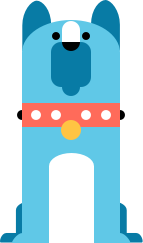
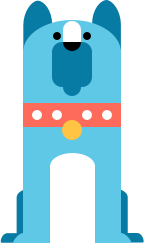
updating motion

diff --git a/projects/motion/index.html b/projects/motion/index.html
@@ -28,6 +28,17 @@
 				top: 50%;
 				transition-duration: 4s;
 			}
+			#dog {
+				position: absolute;
+				top: 50%;
+				left: 50%;
+				transform: translate(-50%,-50%);
+				z-index: 2;
+			}
+			#tail {
+				position: absolute;
+				z-index: 1;
+			}
 			@keyframes smallToBigToSmall {
 				0% {
 					left: 0;
@@ -60,7 +71,8 @@
 	<body>
 		<div class="container">
 			<!-- <div id="circle"></div> -->
-			<img src="dog.png">
+			<img id="dog" src="dog.png">
+			<img src="tail.png">
 		</div>
 		<script src="https://ajax.googleapis.com/ajax/libs/jquery/1.11.3/jquery.min.js"></script>
 		<script type="text/javascript">
